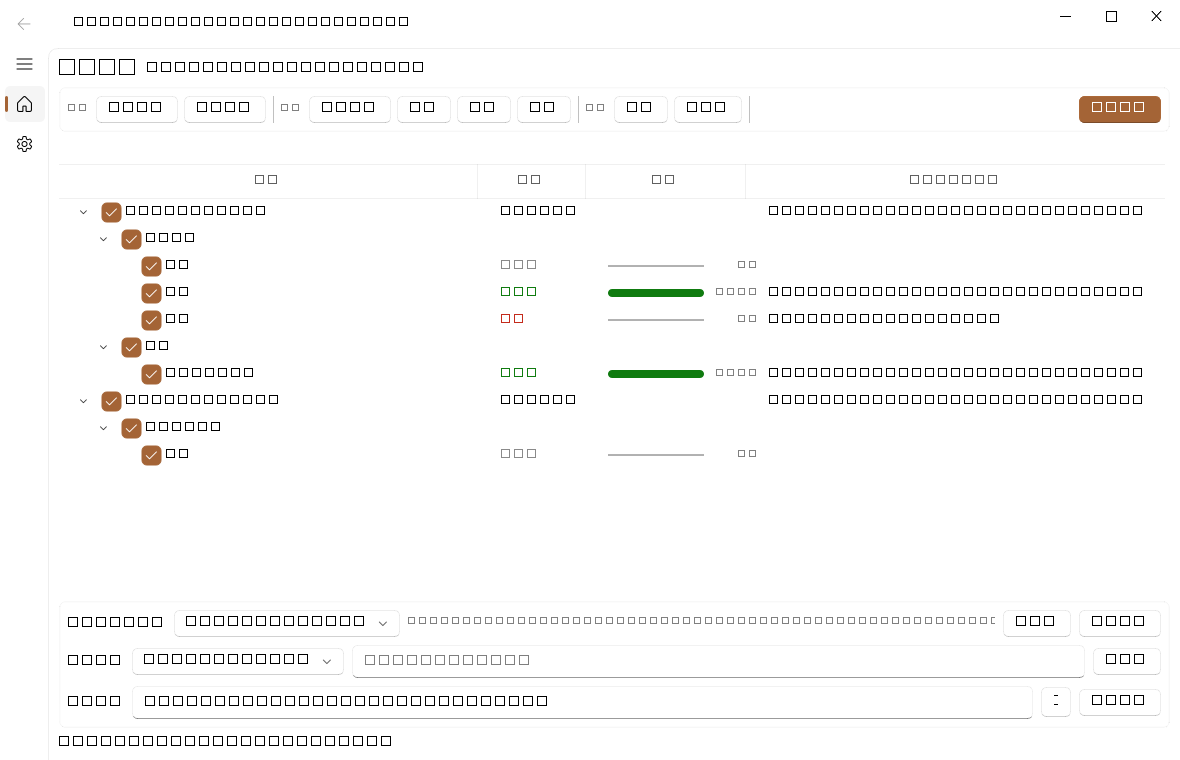
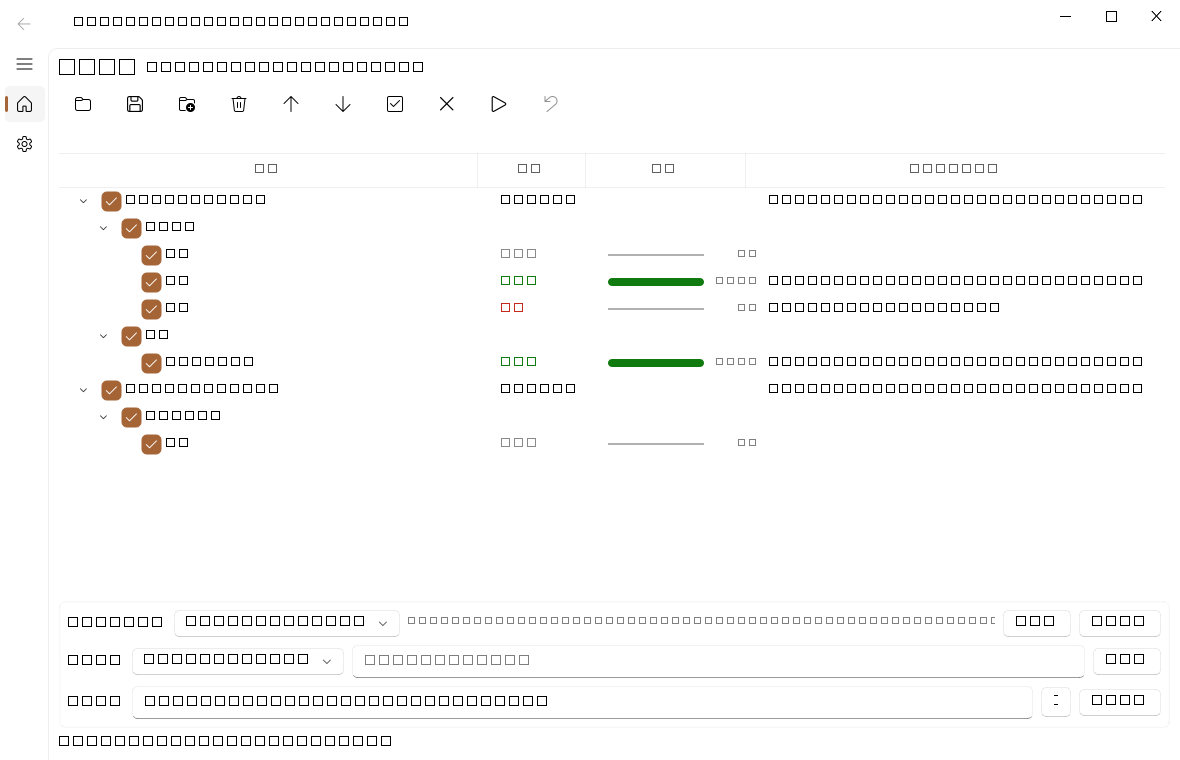
feat: CommandBar 顶栏 + TeachingTip 帮助
- 顶部操作按钮改为 qfluentwidgets CommandBar，全部配内置 Fluent 图标：
  打开项目(FOLDER)/保存(SAVE)/添加文件(FOLDER_ADD)/移除(DELETE)/
  上移(UP)/下移(DOWN)/全选(CHECKBOX)/全不选(CLOSE)/开始渲染(PLAY)/
  停止渲染(CANCEL 忙碌时切换)
- 命名模板帮助：QToolTip 换成 Fluent TeachingTip（箭头/关闭/主题随动）
- 清理旧的按钮分组/自绘浮窗代码

diff --git a/src/rmqueue/ui/queue_page.py b/src/rmqueue/ui/queue_page.py
@@ -14,23 +14,24 @@ import os
 import subprocess
 import sys
 
-from PySide6.QtCore import QPoint, QTimer, Qt, Signal
+from PySide6.QtCore import QTimer, Qt, Signal
 from PySide6.QtGui import QBrush, QColor, QGuiApplication
 from PySide6.QtWidgets import (
     QFileDialog,
-    QFrame,
     QHBoxLayout,
     QHeaderView,
     QLabel,
-    QToolTip,
     QTreeWidgetItem,
     QVBoxLayout,
     QWidget,
 )
 from qfluentwidgets import (
+    Action,
     BodyLabel,
     CardWidget,
     ComboBox,
+    CommandBar,
+    FluentIcon,
     IndeterminateProgressBar,
     LineEdit,
     MessageBox,
@@ -39,6 +40,7 @@ from qfluentwidgets import (
     PushButton,
     RoundMenu,
     SubtitleLabel,
+    TeachingTip,
     TreeWidget,
 )
 
@@ -184,21 +186,27 @@ class QueuePage(QWidget):
         self.lblPercent.hide()
         root.addLayout(head)
 
-        # ---- 队列操作卡片（分组）
-        actions = CardWidget(self)
-        acts = QHBoxLayout(actions)
-        acts.setSpacing(6)
-        self._add_group(acts, "项目", [("打开项目", "open"), ("保存项目", "save")])
-        self._add_group(acts, "文件", [("添加文件", "add"), ("移除", "remove"),
-                                       ("上移", "up"), ("下移", "down")])
-        self._add_group(acts, "勾选", [("全选", "all"), ("全不选", "none")])
-        acts.addStretch(1)
-        self.btnRender = PrimaryPushButton("开始渲染")
-        self.btnStop = PushButton("停止渲染")
-        self.btnStop.hide()
-        acts.addWidget(self.btnRender)
-        acts.addWidget(self.btnStop)
-        root.addWidget(actions)
+        # ---- 顶部操作：CommandBar（Fluent 内置图标 + 文字）
+        self.cmdBar = CommandBar(self)
+
+        def _add_cmd(icon, text: str, key: str, slot) -> None:
+            act = Action(icon, text, self)
+            act.triggered.connect(slot)
+            self._action_buttons[key] = act
+            self.cmdBar.addAction(act)
+
+        _add_cmd(FluentIcon.FOLDER, "打开项目", "open", self.openProjectRequested)
+        _add_cmd(FluentIcon.SAVE, "保存项目", "save", self._on_save)
+        _add_cmd(FluentIcon.FOLDER_ADD, "添加文件", "add", self._on_add_files)
+        _add_cmd(FluentIcon.DELETE, "移除", "remove", self._on_remove_file)
+        _add_cmd(FluentIcon.UP, "上移", "up", lambda: self._move_file(-1))
+        _add_cmd(FluentIcon.DOWN, "下移", "down", lambda: self._move_file(1))
+        _add_cmd(FluentIcon.CHECKBOX, "全选", "all", lambda: self._set_all_selected(True))
+        _add_cmd(FluentIcon.CLOSE, "全不选", "none", lambda: self._set_all_selected(False))
+        _add_cmd(FluentIcon.PLAY, "开始渲染", "render", self.renderRequested)
+        _add_cmd(FluentIcon.CANCEL, "停止渲染", "stop", self.cancelRequested)
+        self._action_buttons["stop"].setVisible(False)
+        root.addWidget(self.cmdBar)
 
         self.workerLabel = BodyLabel("")
         root.addWidget(self.workerLabel)
@@ -274,16 +282,6 @@ class QueuePage(QWidget):
         self._dropHint = _DropHint(self)
 
         # ---- 信号
-        self.btnRender.clicked.connect(self.renderRequested)
-        self.btnStop.clicked.connect(self.cancelRequested)
-        self._wire_action("open", self.openProjectRequested)
-        self._wire_action("save", self._on_save)
-        self._wire_action("add", self._on_add_files)
-        self._wire_action("remove", self._on_remove_file)
-        self._wire_action("up", lambda: self._move_file(-1))
-        self._wire_action("down", lambda: self._move_file(1))
-        self._wire_action("all", lambda: self._set_all_selected(True))
-        self._wire_action("none", lambda: self._set_all_selected(False))
         self.tree.itemChanged.connect(self._on_item_changed)
         self.tree.setContextMenuPolicy(Qt.ContextMenuPolicy.CustomContextMenu)
         self.tree.customContextMenuRequested.connect(self._on_context_menu)
@@ -296,24 +294,6 @@ class QueuePage(QWidget):
         self.btnBrowseOut.clicked.connect(self._browse_outdir)
         self.btnDefaultTemplate.clicked.connect(
             lambda: self.edTemplate.setText(DEFAULT_FILE_TEMPLATE))
-
-    def _add_group(self, layout: QHBoxLayout, title: str,
-                   items: list[tuple[str, str]]) -> None:
-        lbl = QLabel(title)
-        lbl.setStyleSheet("color:#808080;font-size:11px;")
-        layout.addWidget(lbl)
-        for text, key in items:
-            btn = PushButton(text)
-            setattr(self, f"btn_{key}", btn)
-            layout.addWidget(btn)
-        line = QFrame()
-        line.setFrameShape(QFrame.Shape.VLine)
-        line.setStyleSheet("color:#c0c0c0;")
-        layout.addWidget(line)
-
-    def _wire_action(self, key: str, slot) -> None:
-        getattr(self, f"btn_{key}").clicked.connect(slot)
-        self._action_buttons[key] = getattr(self, f"btn_{key}")
 
     def _on_save(self) -> None:
         if self._queue and self._queue.files:
@@ -590,8 +570,9 @@ class QueuePage(QWidget):
         for key in ("open", "save", "add", "remove", "up", "down",
                     "all", "none"):
             self._action_buttons[key].setEnabled(not busy)
-        self.btnRender.setVisible(not busy)
-        self.btnStop.setVisible(busy)
+        self._action_buttons["render"].setVisible(not busy)
+        self._action_buttons["stop"].setVisible(busy)
+        self._action_buttons["stop"].setEnabled(busy)
         for w in (self.cmbBlender, self.cmbSource, self.edOutdir,
                   self.edTemplate, self.btnBrowseBlender,
                   self.btnBrowseOut, self.btnDefaultTemplate,
@@ -663,19 +644,20 @@ class QueuePage(QWidget):
 
     # ============================================================ 配置
     def _show_template_tips(self) -> None:
-        """命名模板占位符说明：系统富文本 Tooltip（非自绘）。"""
-        html = (
-            "<div style='white-space:nowrap;'>"
-            "<b>命名模板占位符</b><hr>"
-            "<b>{file}</b>　当前 .blend 文件名（去扩展名）<br>"
-            "<b>{scene}</b>　场景名<br>"
-            "<b>{name}</b>　快照名<br>"
-            "<b>{index}</b>　队列序号，从 1 起（可带格式，如 {index:02d}→07）<br>"
-            "<b>{frame}</b>　渲染帧号（可带格式，如 {frame:04d}→0007）<br><hr>"
-            "/ 会生成子文件夹；模板不含占位符时自动回退默认模板。</div>")
-        pos = self.btnTemplateHelp.mapToGlobal(
-            QPoint(0, self.btnTemplateHelp.height() + 8))
-        QToolTip.showText(pos, html, self.btnTemplateHelp, msecShowTime=15000)
+        """命名模板占位符说明：Fluent TeachingTip（自带箭头/关闭/主题）。"""
+        content = "\n".join([
+            "{file}　当前 .blend 文件名（去扩展名）",
+            "{scene}　场景名",
+            "{name}　快照名",
+            "{index}　队列序号，从 1 起（可带格式，如 {index:02d}→07）",
+            "{frame}　渲染帧号（可带格式，如 {frame:04d}→0007）",
+            "",
+            "/ 会生成子文件夹；模板不含任何占位符时自动回退默认模板。",
+        ])
+        TeachingTip.create(
+            target=self.btnTemplateHelp, title="命名模板占位符",
+            content=content, icon=FluentIcon.INFO,
+            isClosable=True, duration=20000)
 
     def _on_config_changed(self) -> None:
         self.configChanged.emit()

diff --git a/tests/ui_smoke.py b/tests/ui_smoke.py
@@ -73,16 +73,16 @@ def main() -> int:
     assert q.shot_by(r"C:\demo\scene.blend", "Scene B", "u4").selected is False
     print("step: scene uncheck ok", flush=True)
 
-    # 全选/全不选按钮
-    win.page.btn_all.click()
+    # 全选/全不选（CommandBar Action）
+    win.page._action_buttons["all"].trigger()
     app.processEvents()
     assert len(q.flatten_selected()) == 4
     print("step: btn_all ok", flush=True)
-    win.page.btn_none.click()
+    win.page._action_buttons["none"].trigger()
     app.processEvents()
     assert len(q.flatten_selected()) == 0
     print("step: btn_none ok", flush=True)
-    win.page.btn_all.click()
+    win.page._action_buttons["all"].trigger()
     app.processEvents()
     print("step: btn_all2 ok", flush=True)
 
